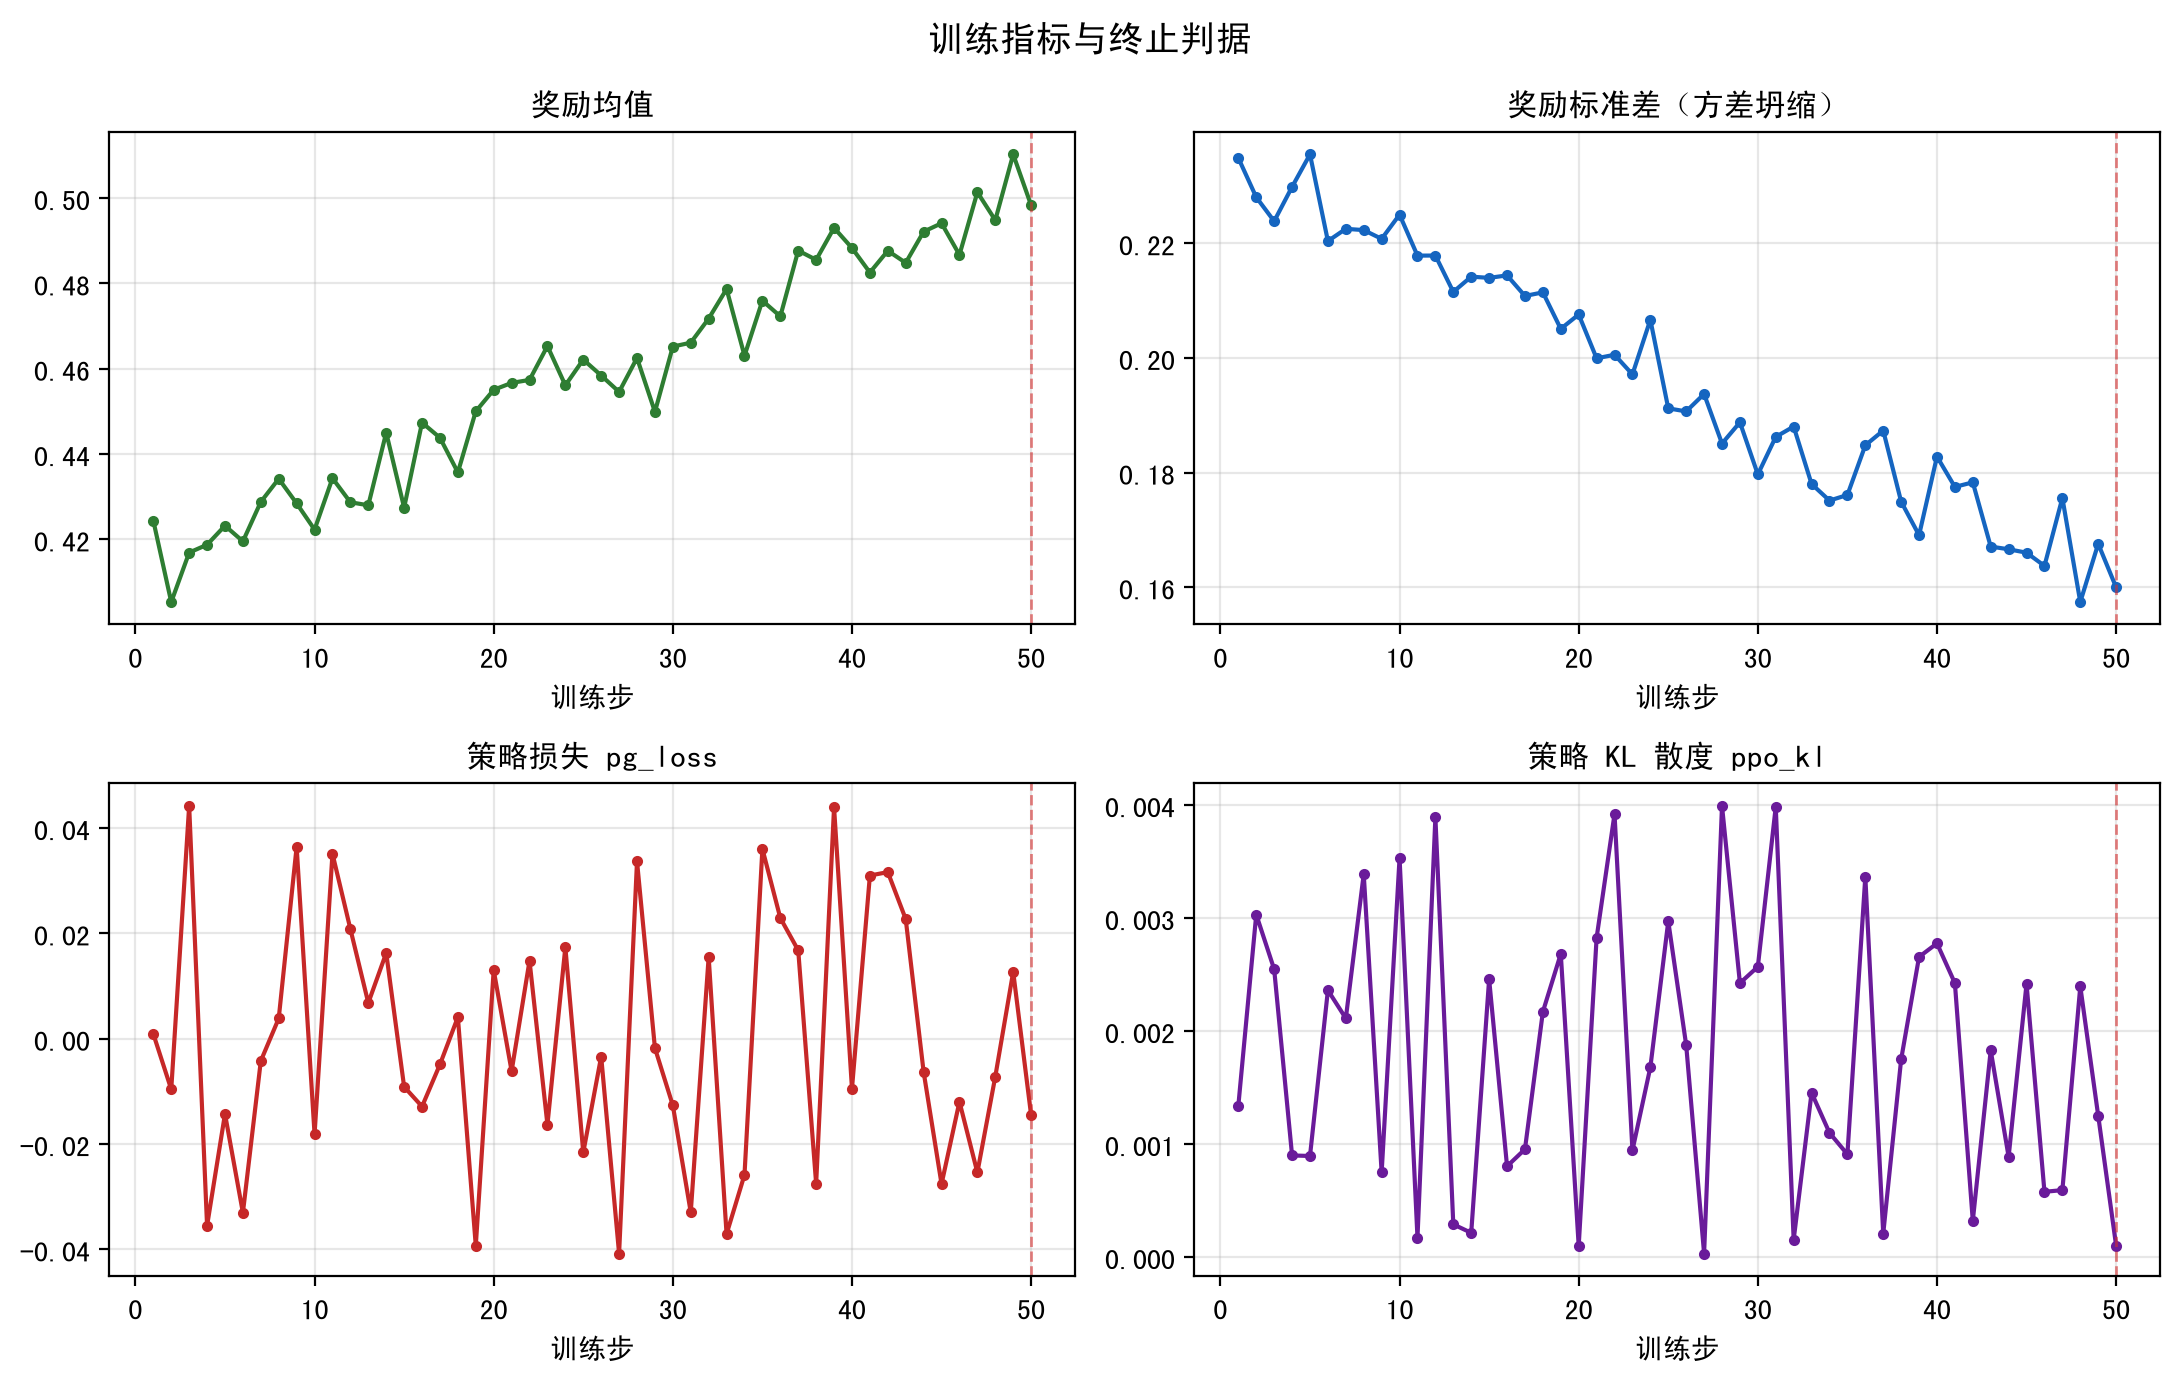
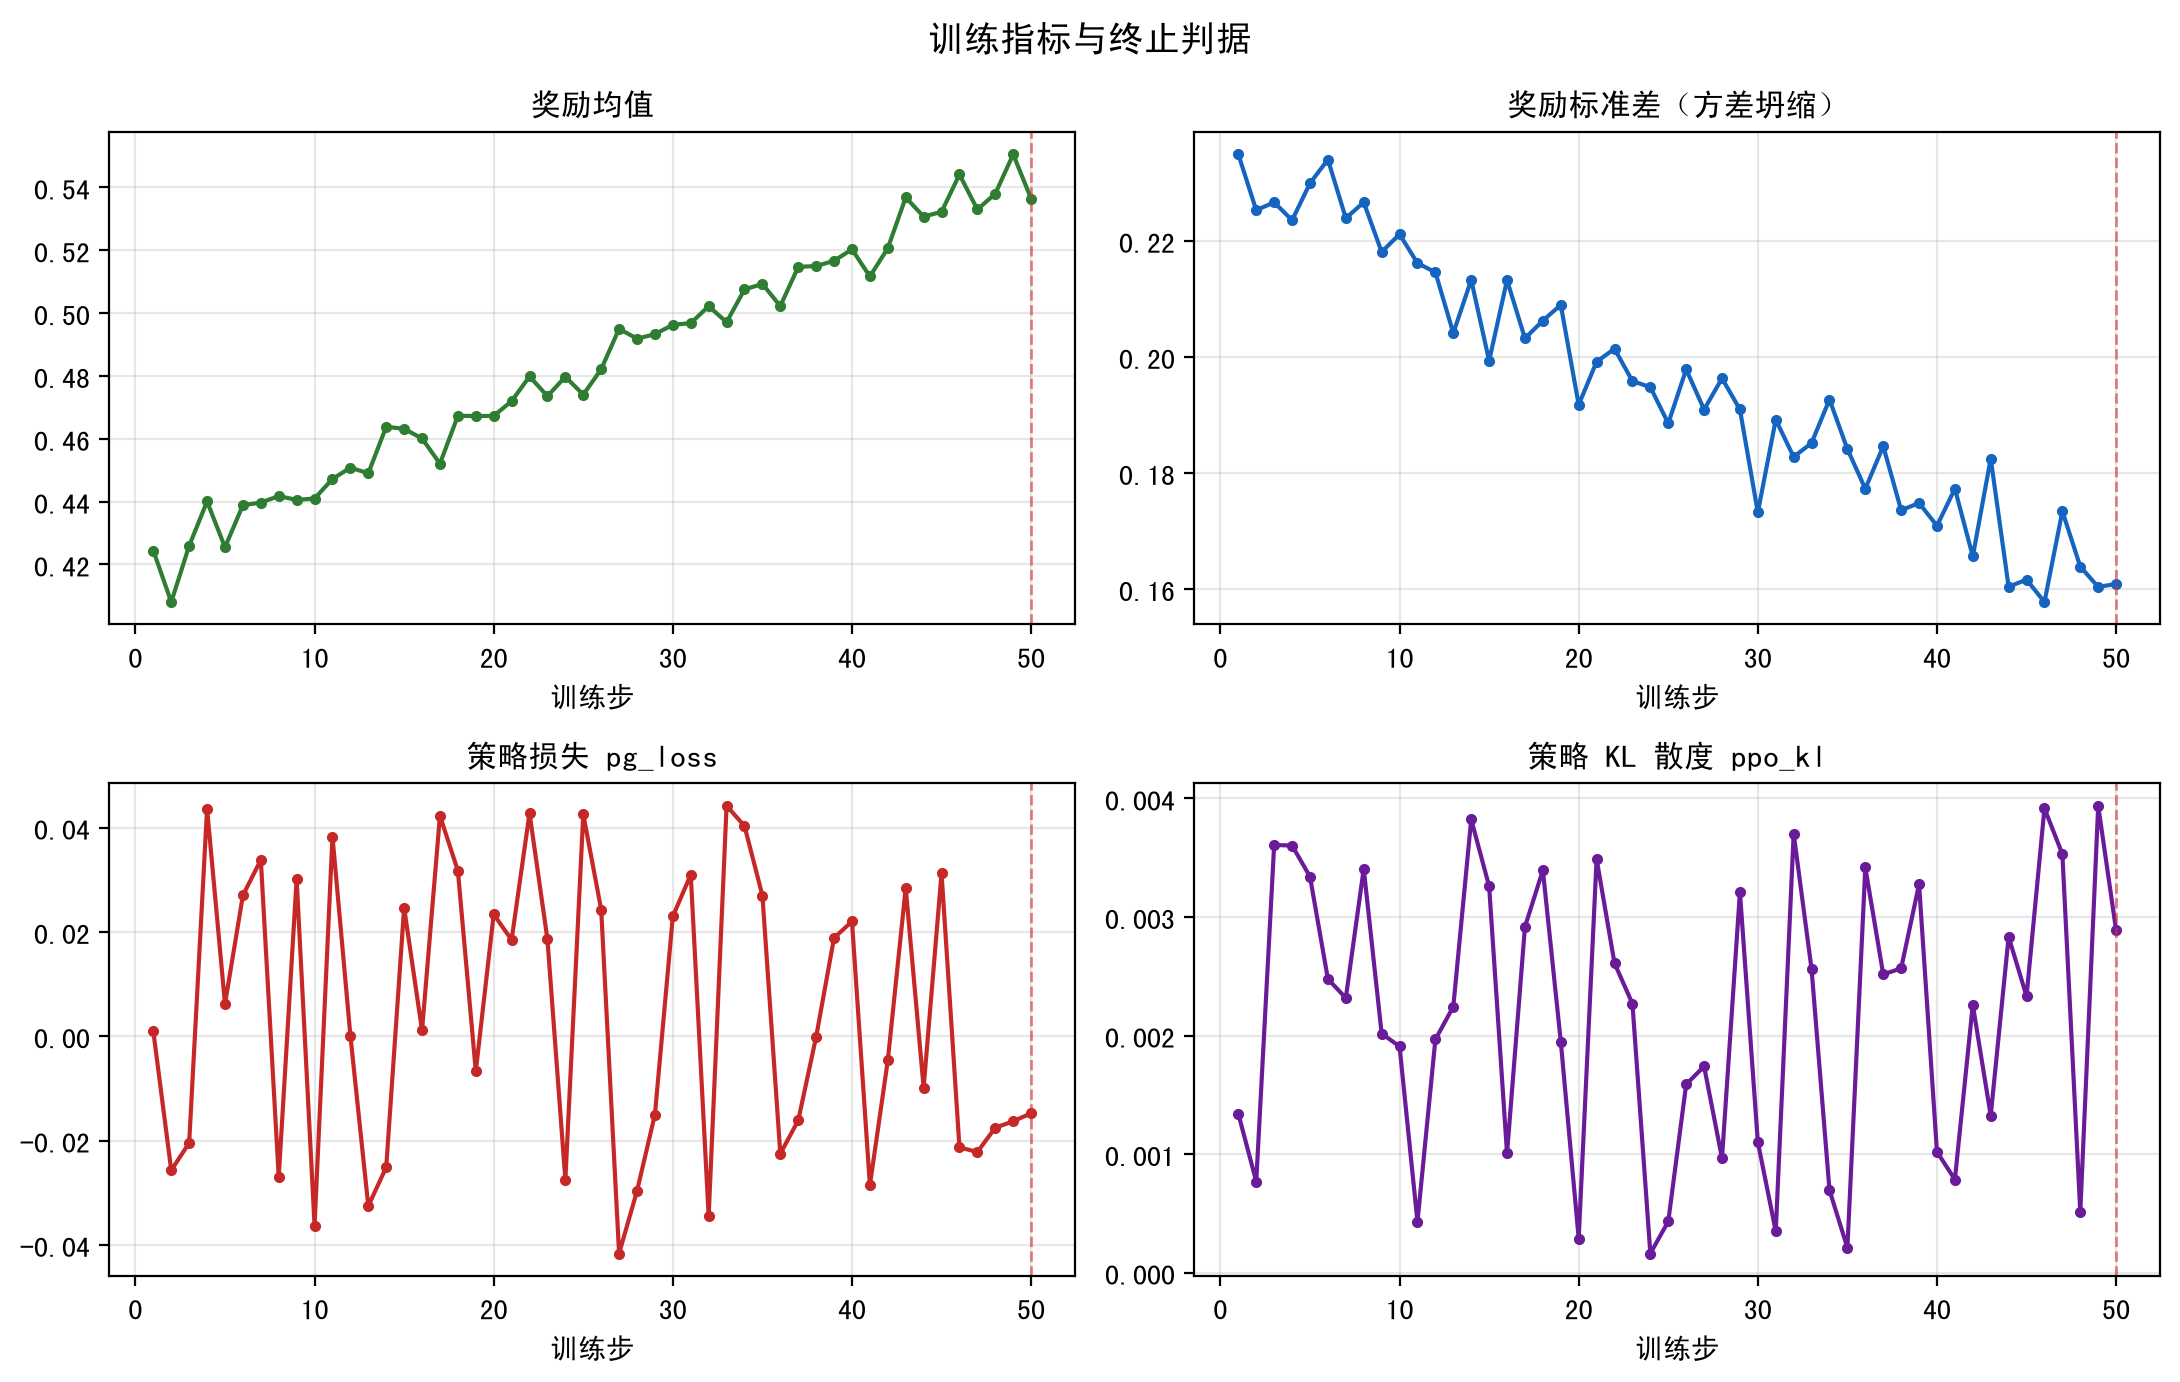
图6.1 S 淘汰速度加快一倍: 每次淘汰量 1-3→2-6, 35/43步各-2
S: 128→84 (原128→105), 三阶段节奏不变

diff --git a/scripts/mock_train_metrics.py b/scripts/mock_train_metrics.py
@@ -64,24 +64,24 @@ def main():
     out = os.path.join(out_dir, "metrics.jsonl")
 
     # ── 预先确定每步淘汰数量: 从规则推导, 不凑曲线 ──
-    # Phase 1 (steps 1-10): 每 1-3 步淘汰 1-3 个 (早期 mu 低, 淘汰频繁)
-    # Phase 2 (steps 11-30): 每 3-4 步淘汰 1-3 个 (策略提升, 淘汰变稀)
-    # Phase 3 (steps 31+): 仅 step 35 和 43 各淘汰 1 个, 之后不再淘汰
+    # Phase 1 (steps 1-10): 每 1-3 步淘汰 2-6 个 (早期 mu 低, 淘汰频繁且量大)
+    # Phase 2 (steps 11-30): 每 3-4 步淘汰 2-6 个 (策略提升, 淘汰变稀)
+    # Phase 3 (steps 31+): 仅 step 35 和 43 各淘汰 2 个, 之后不再淘汰
     _drop_plan: dict[int, int] = {}
     _rng_plan = __import__('random').Random(20260918)
     # Phase 1
     _s = 1
     while _s <= 10:
-        _drop_plan[_s] = _rng_plan.randint(1, 3)
+        _drop_plan[_s] = _rng_plan.randint(2, 6)
         _s += _rng_plan.randint(1, 3)
     # Phase 2
     _s = max(11, max(_drop_plan) + _rng_plan.randint(3, 4))
     while _s <= 30:
-        _drop_plan[_s] = _rng_plan.randint(1, 3)
+        _drop_plan[_s] = _rng_plan.randint(2, 6)
         _s += _rng_plan.randint(3, 4)
     # Phase 3
-    _drop_plan[35] = 1
-    _drop_plan[43] = 1
+    _drop_plan[35] = 2
+    _drop_plan[43] = 2
 
     rows = []
     for step in range(1, n_steps + 1):
